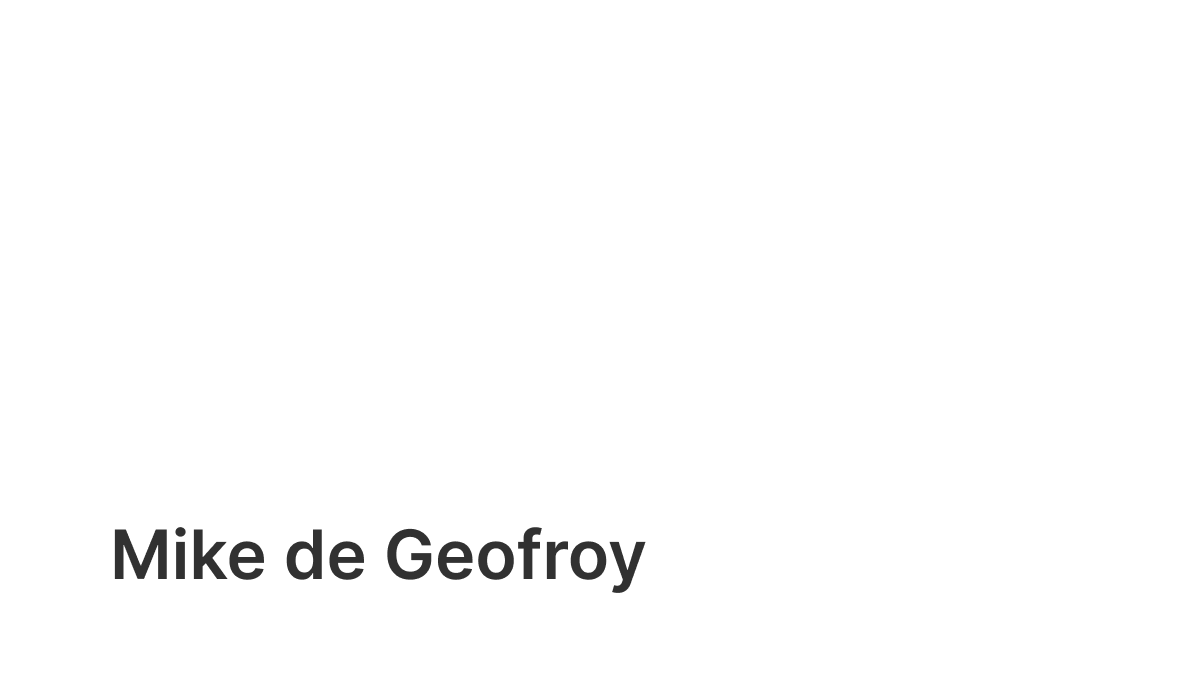
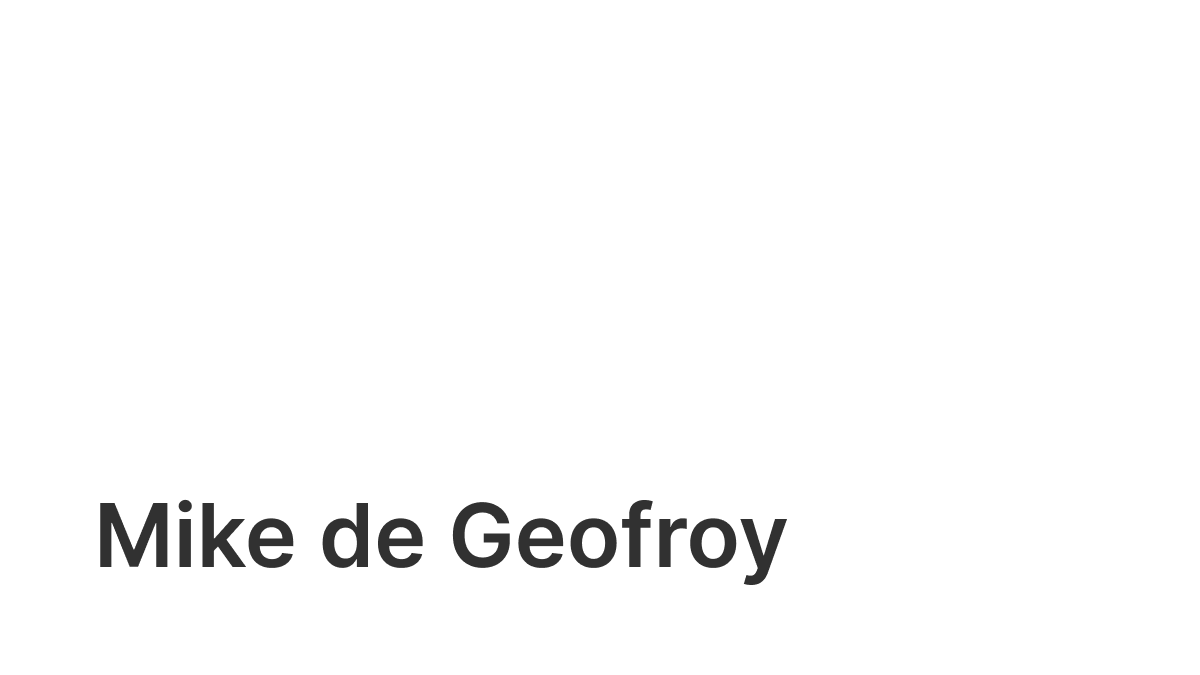
fix(theme): Fixed the light theme
* updated webiste style

* added google analytics, and og scripts.. ( with twitter meta tags too )

* updated the og-image

* updated gaps on front page

* Fixed light theme

Changed region(s): [[0.0617, 0.7467, 0.6783, 0.8711]]

diff --git a/app/page.tsx b/app/page.tsx
@@ -10,7 +10,7 @@ const Home = () => {
   return (
     <>
       <span className='mb-5 font-medium'>Today</span>
-      <p className='text-muted'>
+      <p className='text-foreground-muted dark:text-muted'>
         Software Engineering student at ITMO University and founder of
         shamps.dev, passionate about building seamless digital experiences that
         feel like magic.
@@ -18,7 +18,7 @@ const Home = () => {
       {projects.length > 0 && (
         <div className='mt-16 sm:mt-32'>
           <span className='mb-5 block font-medium'>Projects</span>
-          <div className='flex flex-col gap-2'>
+          <div className='flex flex-col gap-7 sm:gap-4'>
             {projects.map((x, indx) => {
               return (
                 <Link key={indx} href={x.slug}>
@@ -35,13 +35,13 @@ const Home = () => {
       {blog.length > 0 && (
         <div className='mt-16 sm:mt-32'>
           <span className='mb-5 block font-medium'>Blog</span>
-          <div className='flex flex-col gap-2'>
+          <div className='flex flex-col gap-7 sm:gap-4'>
             {blog.map((x, indx) => {
               return (
                 <Link key={indx} href={x.slug}>
-                  <div className='-mx-3 flex flex-col rounded-md px-3 no-underline hover:bg-[#191918] sm:py-3'>
+                  <div className='-mx-3 flex flex-col rounded-md px-3 no-underline hover:bg-[#F5F4F4] dark:hover:bg-[#191918] sm:py-3'>
                     <h1 className='cursor-pointer w-fit'>{x.title}</h1>
-                    <p className='text-muted'>{x.description}</p>
+                    <p className='text-foreground-muted dark:text-muted'>{x.description}</p>
                   </div>
                 </Link>
               );
@@ -51,7 +51,7 @@ const Home = () => {
       )}
       <div className='mt-16 sm:mt-36'>
         <span className='mb-5 block font-medium'>More</span>
-        <p className='text-muted'>
+        <p className='text-foreground-muted dark:text-muted'>
           You can contact me at <b>@mikedegeofroy</b> on telegram.
         </p>
       </div>

diff --git a/app/layout.tsx b/app/layout.tsx
@@ -87,11 +87,13 @@ export default function RootLayout({
           >
             Mike de Geofroy
           </a>
-          <span className='text-medium font-medium leading-none text-muted'>
+          <span className='text-medium font-medium leading-none text-foreground-muted dark:text-muted'>
             Software Engineer
           </span>
         </header>
-        <main className='flex-grow flex flex-col'>{children}</main>
+        <main className='flex-grow flex flex-col text-xl md:text-3xl font-light px-5 pb-5'>
+          {children}
+        </main>
       </body>
     </html>
   );

diff --git a/tailwind.config.ts b/tailwind.config.ts
@@ -15,7 +15,8 @@ const config: Config = {
                 "conic-gradient(from 180deg at 50% 50%, var(--tw-gradient-stops))",
             },
             colors: {
-                'muted': '#b5b3ad'
+                'muted': '#b5b3ad',
+                'foreground-muted': '#63635e',
             }
         },
     },
